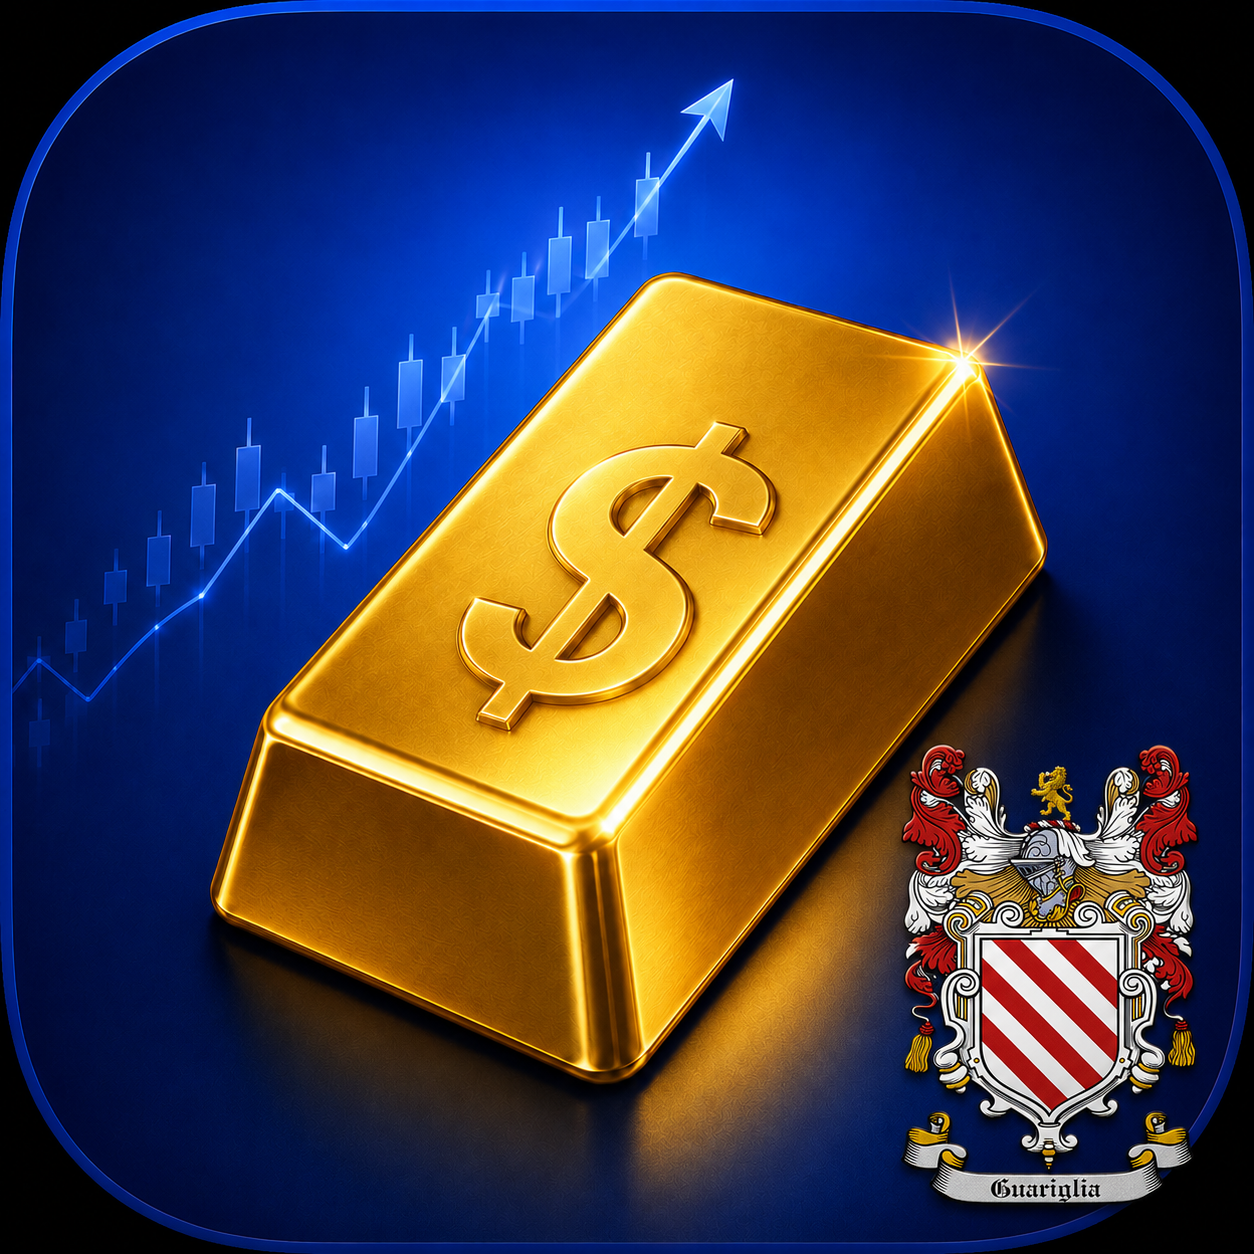
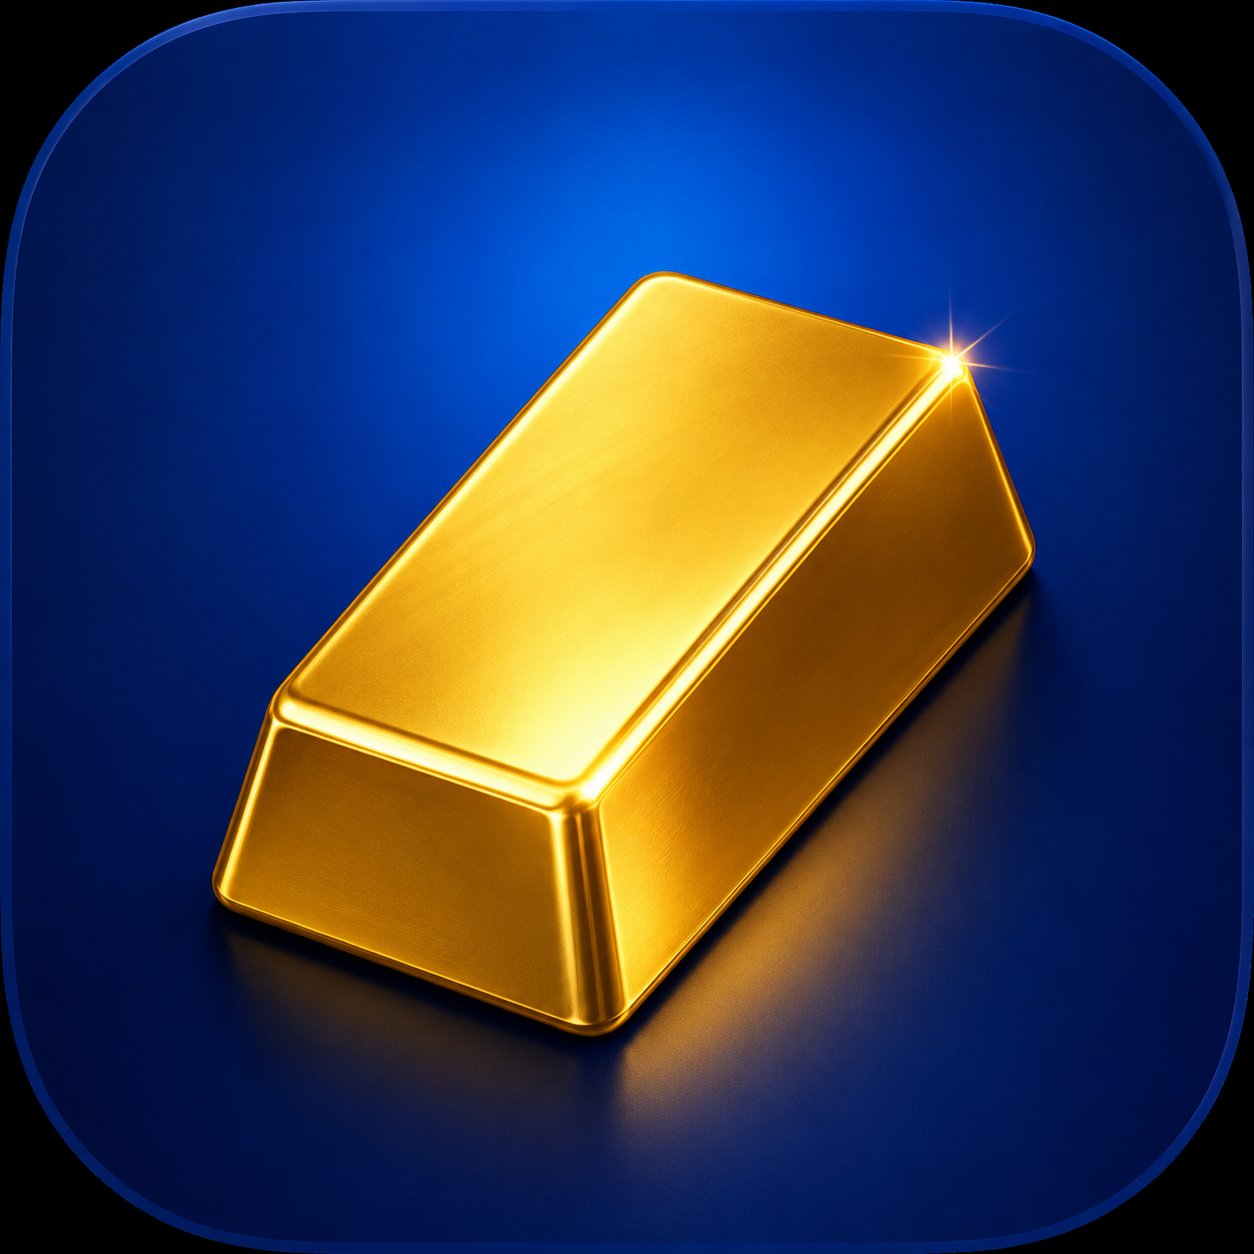
Add files via upload

diff --git a/service-worker.js b/service-worker.js
@@ -1,35 +1,56 @@
-
-const CACHE_NAME = "gold-valuation-tracker-v2";
-const ASSETS = [
+const CACHE_NAME = "gold-valuation-tracker-v3";
+const APP_SHELL = [
   "./",
   "./index.html",
-  "./styles.css",
-  "./app.js",
-  "./manifest.webmanifest",
-  "./icons/icon-192.png",
+  "./styles.css?v=3.0.0",
+  "./app.js?v=3.0.0",
+  "./manifest.webmanifest?v=3.0.0",
+  "./icons/icon-192.png?v=3.0.0",
   "./icons/icon-512.png",
-  "./icons/apple-touch-icon.png"
+  "./icons/apple-touch-icon.png?v=3.0.0"
 ];
 
 self.addEventListener("install", event => {
-  event.waitUntil(caches.open(CACHE_NAME).then(cache => cache.addAll(ASSETS)));
+  event.waitUntil(caches.open(CACHE_NAME).then(cache => cache.addAll(APP_SHELL)));
   self.skipWaiting();
 });
 
 self.addEventListener("activate", event => {
   event.waitUntil(
-    caches.keys().then(keys => Promise.all(keys.filter(key => key !== CACHE_NAME).map(key => caches.delete(key))))
+    caches.keys().then(keys =>
+      Promise.all(keys.filter(key => key !== CACHE_NAME).map(key => caches.delete(key)))
+    ).then(() => self.clients.claim())
   );
-  self.clients.claim();
 });
 
 self.addEventListener("fetch", event => {
   if (event.request.method !== "GET") return;
+
+  // Always try the network first for navigations so a newly published
+  // blank build replaces an older cached/preloaded version promptly.
+  if (event.request.mode === "navigate") {
+    event.respondWith(
+      fetch(event.request, { cache: "no-store" })
+        .then(response => {
+          const copy = response.clone();
+          caches.open(CACHE_NAME).then(cache => cache.put("./index.html", copy));
+          return response;
+        })
+        .catch(() => caches.match("./index.html"))
+    );
+    return;
+  }
+
+  // Network-first for versioned application files, cache fallback offline.
   event.respondWith(
-    caches.match(event.request).then(cached => cached || fetch(event.request).then(response => {
-      const copy = response.clone();
-      caches.open(CACHE_NAME).then(cache => cache.put(event.request, copy));
-      return response;
-    }).catch(() => caches.match("./index.html")))
+    fetch(event.request)
+      .then(response => {
+        if (response && response.ok && new URL(event.request.url).origin === self.location.origin) {
+          const copy = response.clone();
+          caches.open(CACHE_NAME).then(cache => cache.put(event.request, copy));
+        }
+        return response;
+      })
+      .catch(() => caches.match(event.request))
   );
 });

diff --git a/app.js b/app.js
@@ -2,7 +2,8 @@
 (() => {
   "use strict";
 
-  const STORAGE_KEY = "goldValuationTracker.v2";
+  const STORAGE_KEY = "goldValuationTracker.v3";
+  const LEGACY_STORAGE_KEYS = ["goldValuationTracker.v1", "goldValuationTracker.v2"];
   const PURITIES = { "24K": 1, "22K": 0.916, "18K": 0.75, "14K": 0.583, "10K": 0.417 };
   const HALLMARKS = { "24K": "999 / 999.9", "22K": "916", "18K": "750", "14K": "583 / 585", "10K": "416 / 417", "Custom": "Tested purity" };
   const DEFAULT_STATE = JSON.parse(JSON.stringify(window.DEFAULT_GOLD_STATE));
@@ -17,15 +18,28 @@
 
   function loadState() {
     try {
-      const saved = JSON.parse(localStorage.getItem(STORAGE_KEY));
-      if (saved && saved.settings && Array.isArray(saved.items)) return normalizeState(saved);
+      const raw = localStorage.getItem(STORAGE_KEY);
+      if (raw) {
+        const saved = JSON.parse(raw);
+        if (saved && saved.settings && Array.isArray(saved.items)) {
+          LEGACY_STORAGE_KEYS.forEach(key => localStorage.removeItem(key));
+          return normalizeState(saved);
+        }
+      }
     } catch (_) {}
+
+    // This publish-ready build intentionally starts blank and removes
+    // the earlier demo/preloaded data keys from this browser.
+    try {
+      LEGACY_STORAGE_KEYS.forEach(key => localStorage.removeItem(key));
+    } catch (_) {}
+
     return normalizeState(clone(DEFAULT_STATE));
   }
 
   function normalizeState(input) {
     const next = clone(input);
-    next.version = 2;
+    next.version = 3;
     next.settings = next.settings || {};
     next.settings.spotPrice = positiveNumber(next.settings.spotPrice, DEFAULT_STATE.settings.spotPrice);
     next.settings.dealerPct = boundedNumber(next.settings.dealerPct, 0, 1, DEFAULT_STATE.settings.dealerPct);
@@ -425,11 +439,11 @@
   }
 
   function resetState() {
-    if (!confirm("Clear every item and all data saved by this app on this device?")) return;
+    if (!confirm("Clear every gold item and all app data saved on this device?")) return;
     state = normalizeState(clone(DEFAULT_STATE));
     saveState("Blank tracker saved locally.");
     renderAll();
-    showToast("All app data cleared.");
+    showToast("All saved app data cleared.");
   }
 
   function showToast(message) {
@@ -463,6 +477,6 @@
   renderAll();
 
   if ("serviceWorker" in navigator) {
-    window.addEventListener("load", () => navigator.serviceWorker.register("service-worker.js").catch(() => {}));
+    window.addEventListener("load", () => navigator.serviceWorker.register("service-worker.js?v=3.0.0", { updateViaCache: "none" }).catch(() => {}));
   }
 })();

diff --git a/index.html b/index.html
@@ -8,10 +8,10 @@
   <meta name="apple-mobile-web-app-status-bar-style" content="black-translucent">
   <meta name="apple-mobile-web-app-title" content="Gold Tracker">
   <meta name="description" content="Interactive gold purity and investment valuation tracker.">
-  <link rel="manifest" href="manifest.webmanifest">
-  <link rel="apple-touch-icon" href="icons/apple-touch-icon.png">
-  <link rel="icon" href="icons/icon-192.png">
-  <link rel="stylesheet" href="styles.css">
+  <link rel="manifest" href="manifest.webmanifest?v=3.0.0">
+  <link rel="apple-touch-icon" href="icons/apple-touch-icon.png?v=3.0.0">
+  <link rel="icon" href="icons/icon-192.png?v=3.0.0">
+  <link rel="stylesheet" href="styles.css?v=3.0.0">
   <title>Gold Valuation Tracker</title>
 </head>
 <body>
@@ -140,8 +140,8 @@
 
         <div id="itemsList" class="items-list"></div>
         <div id="emptyItems" class="empty-state hidden">
-          <h3>No matching items</h3>
-          <p>Add an item or adjust the filters.</p>
+          <h3>No gold items entered</h3>
+          <p>The calculator is blank. Tap Add Item to begin.</p>
         </div>
       </section>
 
@@ -199,13 +199,13 @@
             <strong>Copy Summary</strong><span>Copy totals for a message, note, or email.</span>
           </button>
           <button class="action-card danger-outline" id="resetBtn">
-            <strong>Clear All Data</strong><span>Remove every saved item and return the app to a blank tracker.</span>
+            <strong>Clear All Data</strong><span>Remove every item saved by this app on this device and return to a blank tracker.</span>
           </button>
         </div>
 
         <div class="card">
           <h3>Storage</h3>
-          <p>This app automatically saves each user’s entries only in the browser on that device. Export a backup before clearing Safari data, replacing the phone, or moving to another device.</p>
+          <p>This app automatically saves each user’s entries in the browser on that user’s device. No gold items are preloaded or shared with other users. Export a backup before clearing Safari data or moving to another phone.</p>
           <p id="saveStatus" class="save-status">Saved locally.</p>
         </div>
       </section>
@@ -298,7 +298,7 @@
   </dialog>
 
   <div id="toast" class="toast" role="status" aria-live="polite"></div>
-  <script>window.DEFAULT_GOLD_STATE = {"version":2,"settings":{"spotPrice":3434.37,"dealerPct":0.9,"pawnPct":0.75,"gramsPerOz":31.1035,"valuationDate":""},"items":[]};</script>
-  <script src="app.js"></script>
+  <script>window.DEFAULT_GOLD_STATE = {"version":3,"settings":{"spotPrice":3434.37,"dealerPct":0.9,"pawnPct":0.75,"gramsPerOz":31.1035,"valuationDate":""},"items":[]};</script>
+  <script src="app.js?v=3.0.0"></script>
 </body>
 </html>